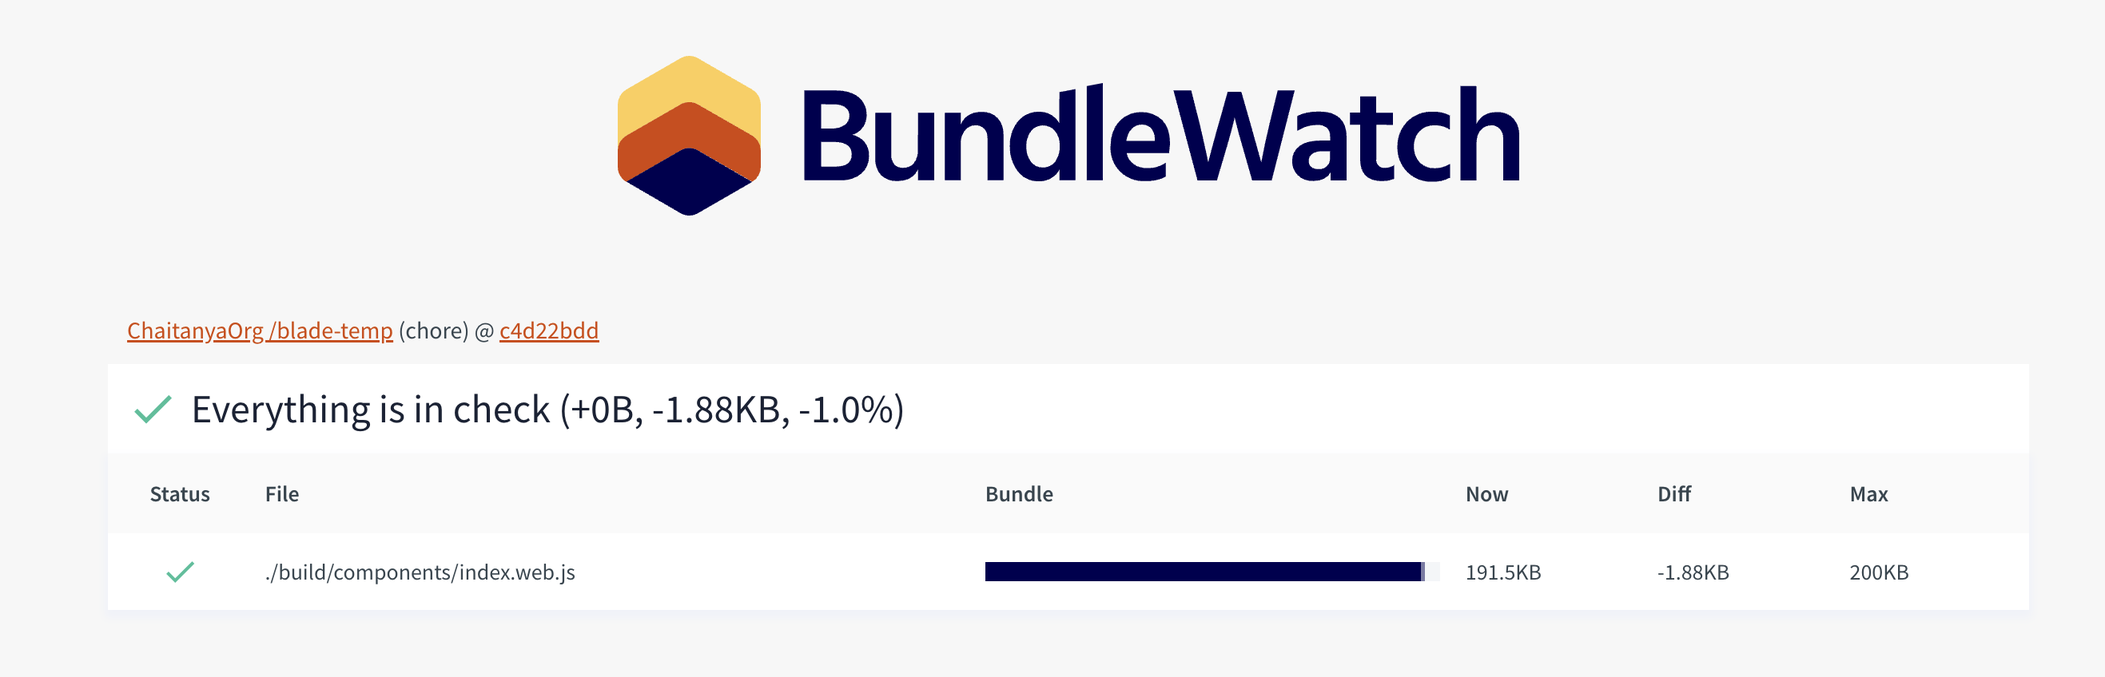
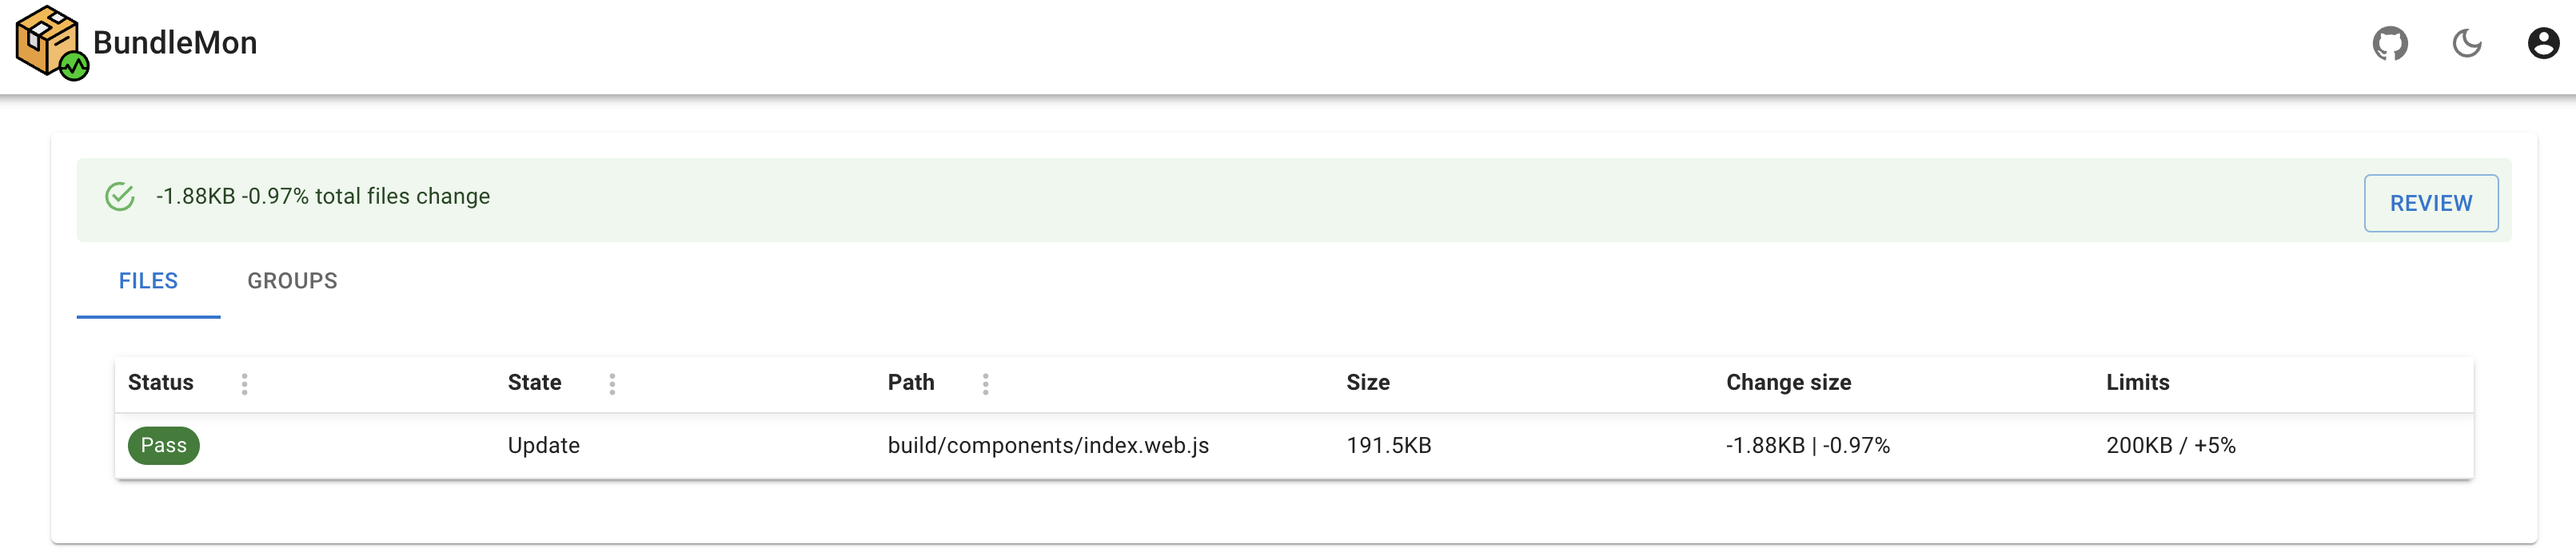
update rfc to use bundlemon instead

diff --git a/rfcs/2023-04-18-bundle-check.md b/rfcs/2023-04-18-bundle-check.md
@@ -11,7 +11,7 @@ Blade Issue: (leave this empty if no issue yet)
 - [Motivation](#motivation)
 - [Detailed Design](#detailed-design)
     - [Bundle Size Limit \& Master Diff](#bundle-size-limit--master-diff)
-      - [Bundlewatch](#bundlewatch)
+      - [Bundlemon](#bundlemon)
     - [Tree Shaking Check](#tree-shaking-check)
 - [Drawbacks/Constraints](#drawbacksconstraints)
 - [Alternatives](#alternatives)
@@ -36,9 +36,9 @@ We will achieve the following with this:
 1. Add a check for each PR that ensures size of our bundles don't increase beyond a certain limit.
 2. Enable a way for the PR author to visualize the impact of their changes on the bundle size by having a diff from master's bundle size.
 
-#### Bundlewatch
-- We will use [bundlewatch](https://bundlewatch.io) to achieve this. Bundlewatch is a tool that helps us to keep an eye on our bundle size. It works by comparing the size of our bundles against a predefined limit. If the size of the bundle exceeds the limit, the build fails. It also provides a diff between the current bundle size and the size of the bundle on master. This helps us to visualize the impact of our changes on the bundle size.
-- Bundlewatch allows us to pass a config like this in `package.json`:
+#### Bundlemon
+- We will use [bundlemon](https://github.com/LironEr/bundlemon) to achieve this. Bundlemon is a tool that helps us to keep an eye on our bundle size. It works by comparing the size of our bundles against a predefined limit. If the size of the bundle exceeds the limit, the build fails. It also provides a diff between the current bundle size and the size of the bundle on master. This helps us to visualize the impact of our changes on the bundle size.
+- Bundlemon allows us to pass a config like this in `package.json`:
 ```json
 {
   "files": [
@@ -61,16 +61,17 @@ We will achieve the following with this:
   ]
 }
 ```
-- We will need to add a github action to run bundlewatch on every PR. This can be a part of `blade-validate`(for PR) + `release`(for master push) workflow or a separate `bundle-check` workflow(that triggers on PR & master push).
+- We will need to add a github action to run bundlemon on every PR. This can be a part of `blade-validate`(for PR) + `release`(for master push) workflow or a separate `bundle-check` workflow(that triggers on PR & master push).
 - This github action will pass or fail based on the limits defined in the config.
-- To get a diff of master we will need to allow Bundlewatch to add a build-status check to the PR (requires github admin approval). The status check will show the diff between the current bundle size and the size of the bundle on master. This will help us to visualize the impact of our changes on the bundle size.
-- The build-status check will show the bundle size like this:
-<img src="./images/bundle-size/build-status.png" width="800" />
+- Bundlemon posts a comment on the PR like this:
 
-- When you click on the `Details` link, it will take you to a page like this:
-<img src="./images/bundle-size/bundle-details.png" width="800" />
+  <img src="./images/bundle-size/pr-comment.png" width="800" />
 
-- This does not post any comments on the PR to show the diff or the bundle size, we will have to write some code to extract bundle size from the Github Action, curate a custom comment and post it on the PR.
+- On visiting their report you can see a detailed view like this:
+  <img src="./images/bundle-size/bundle-details.png" width="800" />
+
+- You can also visualize the bundle history branch-wise like this:
+  <img src="./images/bundle-size/bundle-history.png" width="800" />
 
 ### Tree Shaking Check
 We will achieve the following with this:
@@ -91,15 +92,13 @@ We will achieve the following with this:
     }
   ]
 ```
-- We are not using size-limit to do a total bundle size check or master diff because it doesn't support it as well as bundlewatch does. Bundlewatch has an infra set up that stores master bundle size and diffs it on every PR. We can't do that with size-limit.
+- We are not using size-limit to do a total bundle size check or master diff because it doesn't support it as well as bundlemon does. Bundlemon has an infra set up that stores master bundle size and diffs it on every PR. We can't do that with size-limit.
 
 # Drawbacks/Constraints
-- Bundlewatch is a free service but it also seems unmaintained since Jan 2022.
-- If Bundlewatch service goes down, we will not be able to get any master diffs but we will still be able to get the total bundle size limit check.
-- Bundlewatch service is also open source: https://github.com/bundlewatch/service
-- We could spin up our own service to store master bundle size and diff it on every PR but that would be a lot of work and we would have to maintain it.
-- Alternate to using bundlewatch is setting up our own infra to store master bundle size and diff it on every PR. This would also be a lot of work and we would have to maintain it.
-- I'd suggest taking the shorter route and using bundlewatch for now. If we see that bundlewatch is not reliable, we can switch to our own infra.
+- Bundlemon is a free service but it also seems unmaintained since Jan 2022.
+- If Bundlemon service goes down, we will not be able to get any master diffs but we will still be able to get the total bundle size limit check.
+- Alternate to using bundlemon is setting up our own infra to store master bundle size and diff it on every PR. This would also be a lot of work and we would have to maintain it.
+- I'd suggest taking the shorter route and using bundlemon for now. 
 - [size-limit](https://github.com/ai/size-limit) is an open source project and is actively maintained.
 - size-limit does not support master diffing. Ref: https://github.com/ai/size-limit/issues/318
 - While setting up size-limit, I encountered certain cases where size-limit was not respecting the config (especially to disable load time checks, disabling gzip and compareWith configs). It works for the use-case we want it to work for. Since it's actively maintained, it could be fixed in the future.
@@ -110,7 +109,8 @@ We will achieve the following with this:
   - Some of the design systems were limited to only checking bundle size limit and not doing any diff
 - Explored internal razorpay projects.
   - All the projects are only doing bundle size limits and none of them are doing master diffing.
-- Discovered [bundlemon](https://github.com/LironEr/bundlemon) while writing this RFC, exploring it as an alternative to bundlewatch
+- ~Discovered [bundlemon](https://github.com/LironEr/bundlemon) while writing this RFC, exploring it as an alternative to bundlewatch~ We will go ahead with bundlemon as it has a few extra features and is actively maintained
+- Bundlewatch was an alternative we explored but we will go ahead with bundlemon as it has a few extra features and is actively maintained
 
 # Adoption strategy
 - NA
